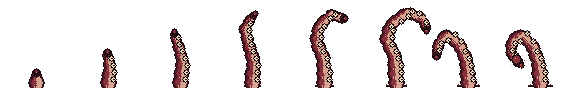
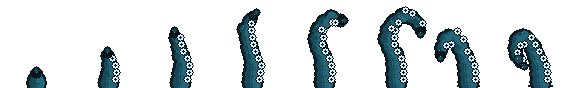
Recolor the ground tentacle to water indigo and thicken it.
The limb stays one thick arm with a sucker row. Body colors follow the water card frame; suckers are bright cyan so the silhouette still reads.

diff --git a/tools/gen_tentacle_vfx.py b/tools/gen_tentacle_vfx.py
@@ -1,9 +1,9 @@
 #!/usr/bin/env python3
 """Procedural pixel sheet for the tentacle card's ground strike.
 
-No reference illustration. The playback matches SanityTendril (a horizontal
-strip, grow then reverse) but the picture does not: this is a thick, muscular
-octopus arm with a row of suckers, in flesh colors. Not the thin teal tendril.
+No reference illustration. Playback matches SanityTendril (a horizontal strip,
+grow then reverse) but the picture does not: one thick octopus arm. Colors
+follow the water-card frame — dark indigo body, bright cyan suckers.
 """
 from __future__ import annotations
 
@@ -16,26 +16,29 @@ H = 88
 FRAMES = 8
 OUT = "art/pixel/fx/tentacle_ground.png"
 
-# Wet octopus flesh. Dorsal is dark wine, the belly is pale, suckers are rings.
-INK = (20, 8, 12, 255)
-DORSAL = (78, 24, 36, 255)
-MUSCLE = (132, 48, 58, 255)
-HIGH = (196, 112, 104, 255)
-BELLY = (214, 164, 142, 255)
-RING = (236, 214, 186, 255)
-HOLE = (36, 12, 18, 255)
-SPARK = (232, 196, 176, 255)
+# Water-frame family. Body stays in the dark indigo of frame_card_water_9.
+# Suckers are much lighter so the row still reads.
+INK = (6, 14, 18, 255)
+DORSAL = (14, 34, 42, 255)
+MUSCLE = (24, 72, 88, 255)
+HIGH = (78, 168, 186, 255)
+BELLY = (36, 104, 124, 255)
+RING = (210, 244, 250, 255)
+HOLE = (8, 22, 30, 255)
+SPARK = (176, 228, 238, 255)
+GROUND = (12, 36, 46, 255)
 
 # Base at the ground, tip at the end. y grows downward.
+# Outer poses sit a few px in from the edge so the thicker limb does not clip.
 POSES: list[list[tuple[int, int]]] = [
 	[(36, 84), (36, 74)],
 	[(36, 84), (37, 66), (35, 54)],
 	[(36, 84), (38, 62), (34, 46), (30, 34)],
 	[(36, 84), (37, 60), (32, 44), (28, 28), (36, 16)],
-	[(36, 84), (35, 58), (28, 42), (30, 26), (42, 14), (54, 18)],
-	[(36, 84), (34, 56), (26, 40), (30, 24), (46, 12), (62, 18), (66, 28)],
-	[(36, 84), (34, 60), (26, 44), (14, 34), (6, 42), (4, 54)],
-	[(36, 84), (34, 62), (28, 46), (16, 34), (8, 40), (6, 52), (14, 62)],
+	[(36, 84), (35, 58), (28, 42), (30, 26), (42, 16), (52, 20)],
+	[(36, 84), (34, 56), (26, 40), (30, 24), (44, 14), (56, 20), (60, 30)],
+	[(36, 84), (34, 60), (26, 44), (16, 34), (10, 42), (8, 54)],
+	[(36, 84), (34, 62), (28, 46), (18, 34), (12, 40), (10, 52), (16, 62)],
 ]
 
 
@@ -89,11 +92,11 @@ def disc(img: Image.Image, x: int, y: int, r: int, color: tuple[int, int, int, i
 
 def radius_at(i: int, count: int) -> int:
 	if count <= 1:
-		return 6
+		return 8
 	t = i / float(count - 1)
-	base = 6.4 - 3.1 * t
-	bulge = 0.85 * math.sin(i * 0.72)
-	return max(3, int(round(base + bulge)))
+	base = 8.8 - 3.8 * t
+	bulge = 1.05 * math.sin(i * 0.72)
+	return max(4, int(round(base + bulge)))
 
 
 def belly_normal(pts: list[tuple[int, int]], i: int) -> tuple[int, int]:
@@ -113,7 +116,7 @@ def draw_ground(img: Image.Image, reach: int) -> None:
 	half = 5 + reach
 	for x in range(36 - half, 37 + half):
 		plot(img, x, y, INK)
-		plot(img, x, y - 1, (48, 22, 28, 255))
+		plot(img, x, y - 1, GROUND)
 		if abs(x - 36) % 5 == 0:
 			plot(img, x, y - 2, MUSCLE)
 	plot(img, 36, y - 3, HIGH)
@@ -144,10 +147,9 @@ def draw_suckers(img: Image.Image, pts: list[tuple[int, int]]) -> None:
 		r = radius_at(i, n)
 		cx = pts[i][0] + sx * max(2, r - 1)
 		cy = pts[i][1] + sy * max(2, r - 1)
-		disc(img, cx, cy, 3, INK)
-		disc(img, cx, cy, 2, RING)
-		plot(img, cx, cy, HOLE)
-		plot(img, cx + sx, cy + sy, HOLE)
+		disc(img, cx, cy, 4, INK)
+		disc(img, cx, cy, 3, RING)
+		disc(img, cx, cy, 1, HOLE)
 
 
 def draw_hook(img: Image.Image, pts: list[tuple[int, int]]) -> None:
@@ -159,7 +161,7 @@ def draw_hook(img: Image.Image, pts: list[tuple[int, int]]) -> None:
 	mag = max(abs(dx), abs(dy), 1)
 	sx = int(round(dx / mag))
 	sy = int(round(dy / mag))
-	for step, rad in ((1, 3), (2, 2), (3, 2)):
+	for step, rad in ((1, 4), (2, 3), (4, 3)):
 		disc(img, x1 + sx * step, y1 + sy * step, rad + 1, INK)
 		disc(img, x1 + sx * step, y1 + sy * step, rad, DORSAL)
 		disc(img, x1 + sx * step, y1 + sy * step, max(1, rad - 1), MUSCLE)
